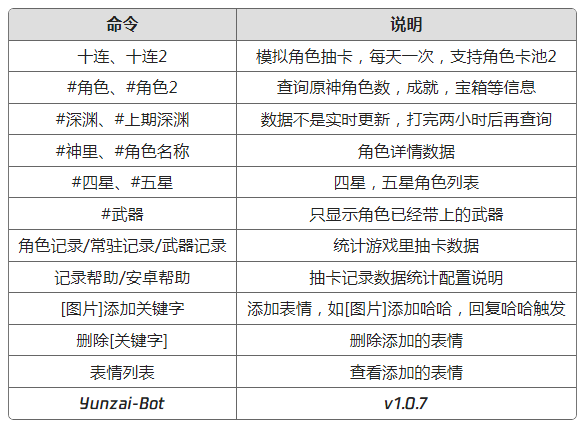
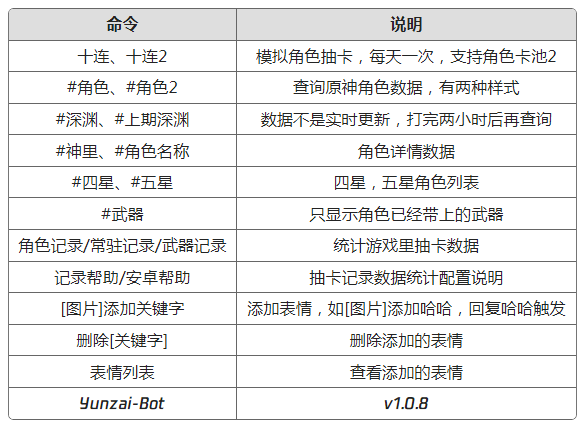
#角色2bug

Changed region(s): [[0.4615, 0.1827, 0.9231, 0.2436], [0.6462, 0.9133, 0.7385, 0.9742]]

diff --git a/lib/app/mysInfo.js b/lib/app/mysInfo.js
@@ -210,7 +210,10 @@ async function abyssAll(e, uid, roleArr, resAbyss) {
   let avatar = _.keyBy(roleArr, "id");
 
   for (let val of tmpRole) {
-    let tmp = avatar[val];
+    let tmp = avatar[val] ||'';
+    if(!tmp){
+      continue;
+    }
     list.push({
       star: tmp.rarity,
       level: tmp.level,
@@ -228,12 +231,12 @@ async function abyssAll(e, uid, roleArr, resAbyss) {
       if (tmpRole.includes(val.avatar_id)) {
         continue;
       }
-      let tmp = avatar[val.avatar_id];
+      let tmp = avatar[val.avatar_id] || [];
       list.push({
         star: val.rarity,
-        level: tmp.level,
-        name: tmp.name,
-        life: tmp.actived_constellation_num,
+        level: tmp.level||80,
+        name: tmp.name || roleIdToName(val.avatar_id,true),
+        life: tmp.actived_constellation_num||0,
       });
     }
   }

diff --git a/resources/help/help.html b/resources/help/help.html
@@ -76,7 +76,7 @@
         </tr>
         <tr>
           <td>#角色、#角色2</td>
-          <td>查询原神角色数，成就，宝箱等信息</td>
+          <td>查询原神角色数据，有两种样式</td>
         </tr>
         <tr>
           <td>#深渊、#上期深渊</td>
@@ -116,7 +116,7 @@
         </tr>
         <tr>
           <td class="logo">Yunzai-Bot</td>
-          <td class="logo">v1.0.7</td>
+          <td class="logo">v1.0.8</td>
         </tr>
       </table>
     </div>
